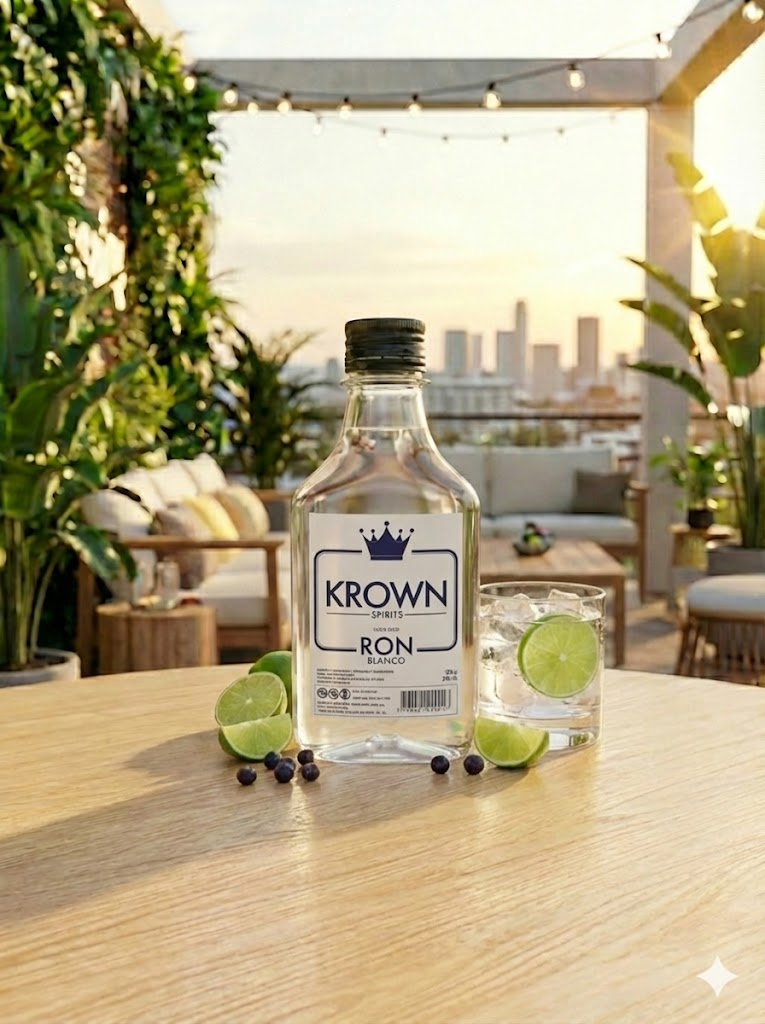
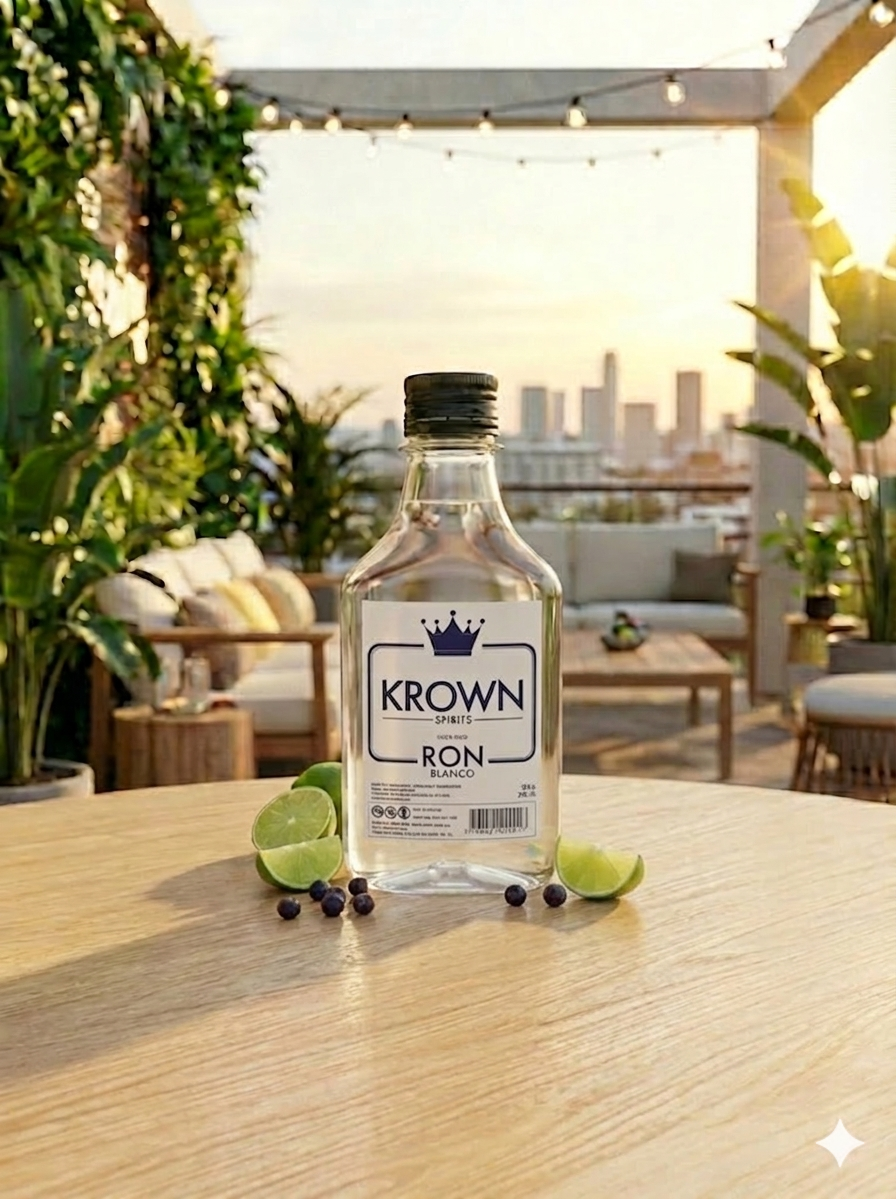
Removi vasos de las imagenes de las petacas

Changed region(s): [[0.4209, 0.5625, 0.8118, 0.875], [0.4209, 0.6562, 0.451, 0.6875]]

diff --git a/index.html b/index.html
@@ -241,7 +241,7 @@
                     <div class="swiper-slide">
                         <div class="product-card">
                             <div class="card-img">
-                                <img src="images/2-PetacaVodkaDurazno.jpg" alt="Petaca Durazno">
+                                <img src="images/2-PetacaVodkaDurazno.png" alt="Petaca Durazno">
                             </div>
                             <div class="card-info">
                                 <h3>Petaca Durazno</h3>
@@ -254,7 +254,7 @@
                     <div class="swiper-slide">
                         <div class="product-card">
                             <div class="card-img">
-                                <img src="images/5-PetacaVodkaRaspberry.jpg" alt="Petaca Raspberry">
+                                <img src="images/5-PetacaVodkaRaspberry.png" alt="Petaca Raspberry">
                             </div>
                             <div class="card-info">
                                 <h3>Petaca Raspberry</h3>
@@ -267,7 +267,7 @@
                     <div class="swiper-slide">
                         <div class="product-card">
                             <div class="card-img">
-                                <img src="images/20-PetacaLemonLime.png" alt="Petaca LemonLime">
+                                <img src="images/20-PetacaVodkaLimon.png" alt="Petaca LemonLime">
                             </div>
                             <div class="card-info">
                                 <h3>Petaca Lemon Lime</h3>
